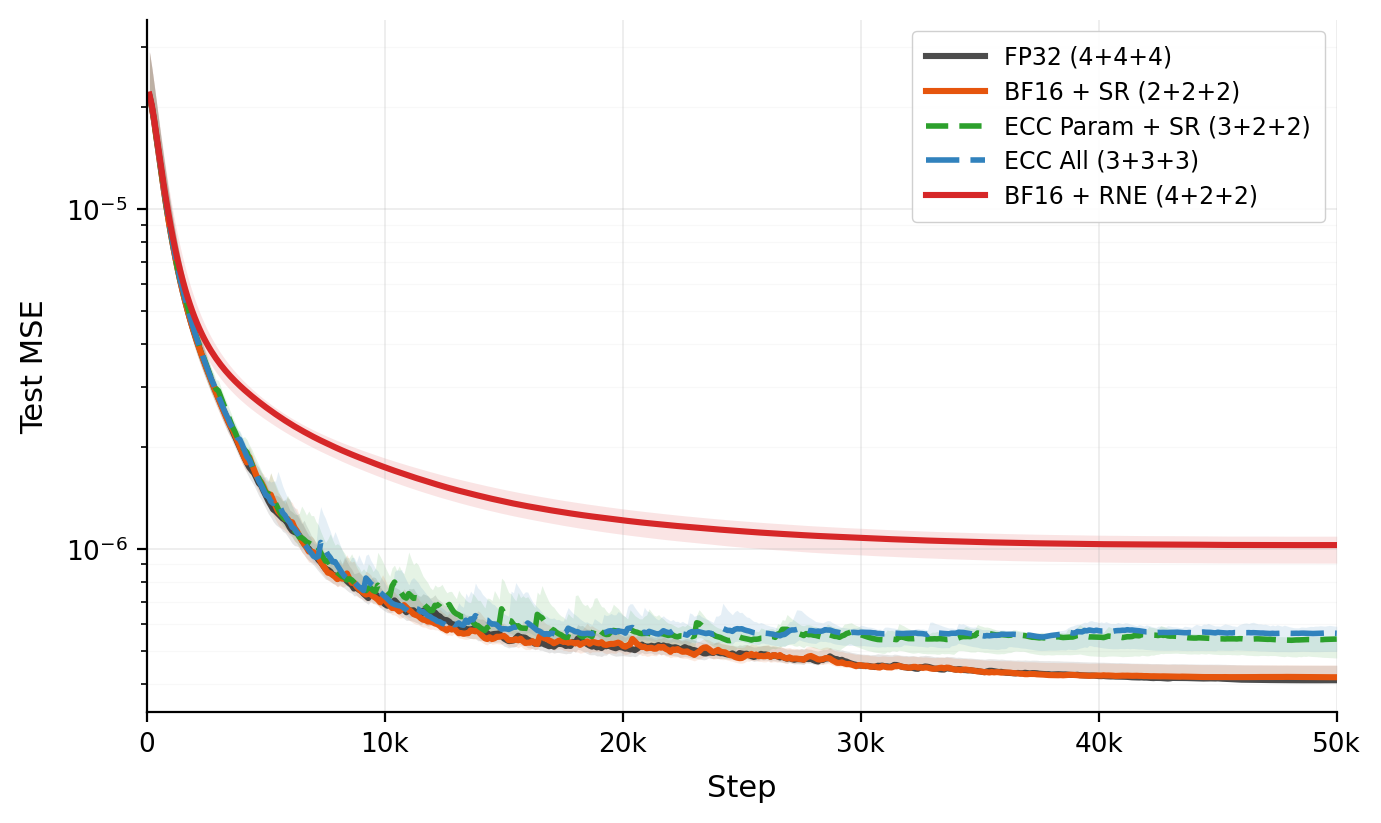
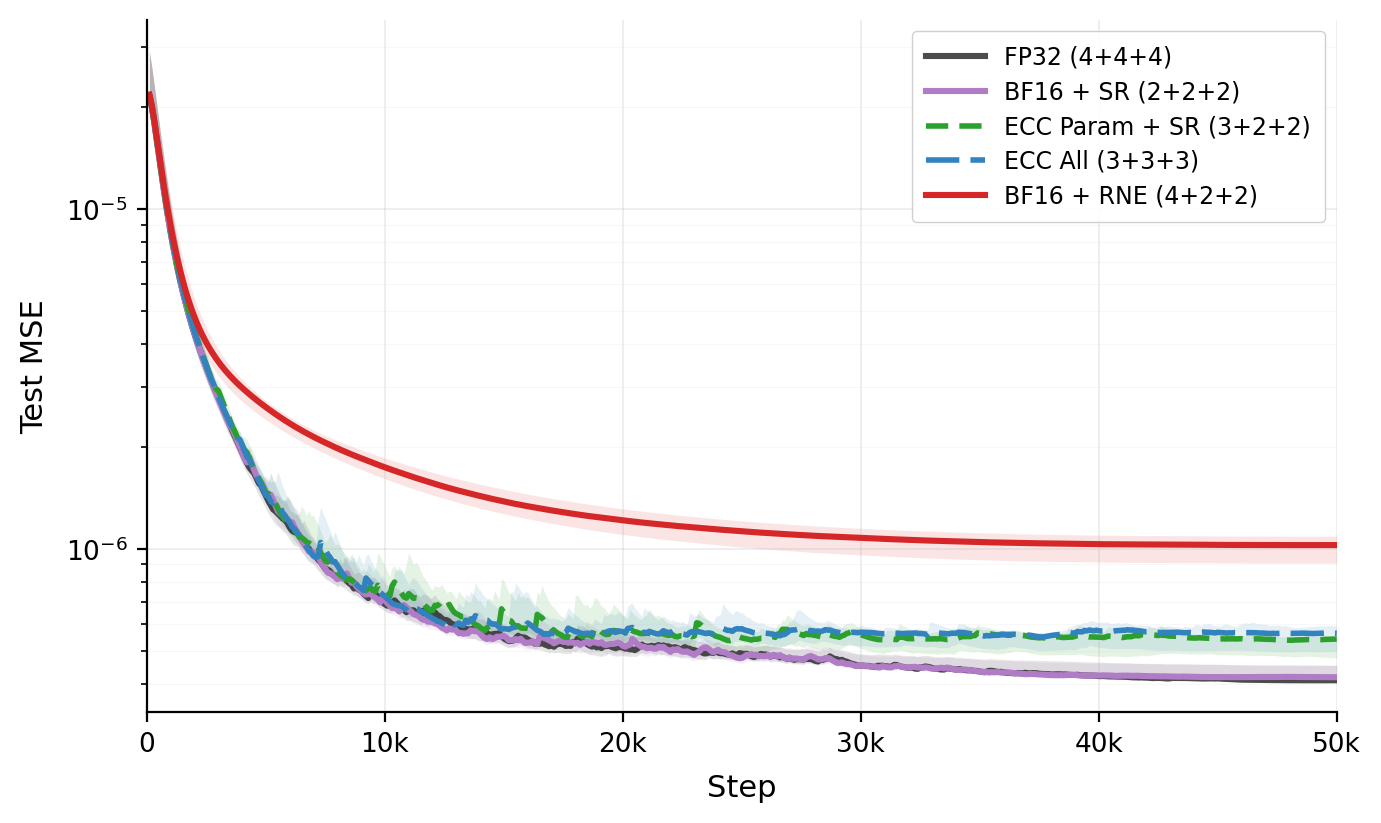
better colors, add speed note

diff --git a/content/posts/stochastic_rounding/gen_precision_toy_param.py b/content/posts/stochastic_rounding/gen_precision_toy_param.py
@@ -91,7 +91,7 @@ CONFIGS = [
     ("FP32 (4+4+4)", lambda p: heavyball.ForeachAdamW(p, lr=LR, betas=BETAS, eps=EPS, storage_dtype="float32"),
      "#2d2d2d", dict(linewidth=2.2, linestyle="-", alpha=0.85), False),
     ("BF16 + SR (2+2+2)", lambda p: heavyball.ForeachAdamW(p, lr=LR, betas=BETAS, eps=EPS, storage_dtype="bfloat16"),
-     "#e6550d", dict(linewidth=2.2, linestyle="-"), False),
+     "#b07cc6", dict(linewidth=2.2, linestyle="-"), False),
     ("ECC Param + SR (3+2+2)",
      lambda p: heavyball.ForeachAdamW(p, lr=LR, betas=BETAS, eps=EPS, storage_dtype="bfloat16", param_ecc="bf16+8"),
      "#2ca02c", dict(linewidth=2.0, linestyle=(0, (4, 2))), False),

diff --git a/content/posts/stochastic_rounding/index.md b/content/posts/stochastic_rounding/index.md
@@ -34,8 +34,12 @@ parameters and optimizer state.
 ![precision_toy_param.png](precision_toy_param.png)
 
 BF16 + SR (6 bytes for parameters, first moment, and second moment) nearly matches the fp32 baseline (12 bytes), and
-both ECC variants close most of the gap to fp32. Plain BF16 + RNE (8 bytes) is worst: biased rounding in the optimizer state accumulates error, and loss plateaus an
+both ECC variants close most of the gap to fp32. Plain BF16 + RNE (8 bytes) is worst: biased rounding in the optimizer
+state accumulates error, and loss plateaus an
 order of magnitude above the baseline despite fp32 parameters.
+
+BF16 + SR adds no overhead, as stochastic rounding is fused into the optimizer kernel. ECC adds one byte of read/write
+per parameter.
 
 Substituting SR for ECC on the optimizer state reaches similar losses at 7 bytes per parameter versus 9. The only
 difference is how the state is stored: ECC's residual byte with deterministic rounding versus plain bf16 with unbiased
